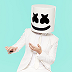
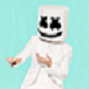
commit

diff --git a/src/styles.css b/src/styles.css
@@ -1,4 +1,5 @@
 @import url("https://fonts.googleapis.com/css?family=Open+Sans:400,700&display=swap");
+@import url("https://fonts.googleapis.com/css?family=McLaren&display=swap");
 
 body {
   height: 100%;
@@ -14,9 +15,9 @@ body {
 
 .bigframe {
   width: 35%;
-  background-color: black;
-  padding: 2%;
-  overflow: scroll;
+  background-color: #a9f5cf;
+  padding: 1%;
+  /* overflow: scroll; */
 }
 
 .airpods {
@@ -54,6 +55,9 @@ body {
   padding: 0px 25px;
 }
 
+.airpods__column .price {
+  font-weight: 700;
+}
 .evaluate .num {
   padding-left: 1px;
   opacity: 0.5;
@@ -67,37 +71,80 @@ body {
 .grey {
   color: #d7dfe1;
 }
+/*---------------------------------- end AirPods ----------------------------------*/
 
 .profile {
-  margin-top: 20px;
-  background-color: white;
-  border-radius: 11px;
   display: flex;
   flex-direction: column;
+  font-family: "McLaren", cursive;
+  align-items: center;
+  background-color: white;
+  border-radius: 11px;
+  margin-top: 20px;
 }
 
-.screen__top-img {
-  position: relative;
-}
-
-.screen__top-img img {
-  position: absolute;
-  top: 0;
-  left: 0;
+.profile .profile__img,
+.profile .profile__img img {
   width: 100%;
   height: 100%;
-}
-
-/* .profile .screen__top img {
-  position: absolute;
-  top: 0;
-  left: 0;
-  height: 100%;
-  width: 100%;
   border-top-left-radius: 11px;
   border-top-right-radius: 11px;
-} */
+}
 
-.profile .screen__bottom {
-  height: 100%;
+.my__profile {
+  position: absolute;
+  border: 5px solid white;
+  border-radius: 100%;
+  /* z-index: 5; */
+  top: 50%;
+  left: 50%;
+  transform: translateX(-50%);
+}
+
+.profile__name {
+  font-size: 19px;
+  font-weight: 700;
+  padding-top: 10%;
+  text-align: center;
+}
+
+.profile__des {
+  font-size: 14px;
+  opacity: 0.3;
+  text-align: center;
+  padding-top: 5px;
+}
+
+.profile__button {
+  width: 80%;
+  padding-top: 6%;
+  padding-bottom: 8%;
+  display: flex;
+  justify-content: space-around;
+}
+
+.profile__button .profile__button-follow {
+  background-color: #299b84;
+  width: 40%;
+  height: 50px;
+  color: white;
+  font-size: 12px;
+  text-align: center;
+  border-radius: 9px;
+  display: flex;
+  justify-content: center;
+  align-items: center;
+}
+
+.profile__button .profile__button-Message {
+  background-color: #299b84;
+  width: 40%;
+  height: 50px;
+  color: white;
+  font-size: 12px;
+  text-align: center;
+  border-radius: 9px;
+  display: flex;
+  justify-content: center;
+  align-items: center;
 }

diff --git a/index.html b/index.html
@@ -38,21 +38,27 @@
           </div>
         </div>
       </div>
-
       <div class="profile">
-        <div class="screen__top">
-          <div class="screen__top-img">
-            <img src="images/marshmello__back.png" />
+        <img src="images/marshmello.png" class="my__profile" />
+        <div class="profile__img">
+          <img src="images/marshmello__back2.png" />
+        </div>
+        <div class="profile__name">
+          <div class="profile__name">
+            <span>MarshMello</span>
+          </div>
+          <div class="profile__des">
+            <span>
+              American DJ
+            </span>
           </div>
         </div>
-        <div class="screen__bottom">
-          <div class="screen__bottom-column">
-            <div class="bottom__name"><span>MarshMello</span></div>
-            <div class="bottom__job">American DJ</div>
+        <div class="profile__button">
+          <div class="profile__button-follow">
+            <div class="follow-btn">Follow</div>
           </div>
-          <div class="screen__bottom-btn">
-            <div class="bottom__follow-btn"><span>Follow</span></div>
-            <div class="bottom__message-btn"><span>Message</span></div>
+          <div class="profile__button-Message">
+            <div class="follow-btn">Message</div>
           </div>
         </div>
       </div>
